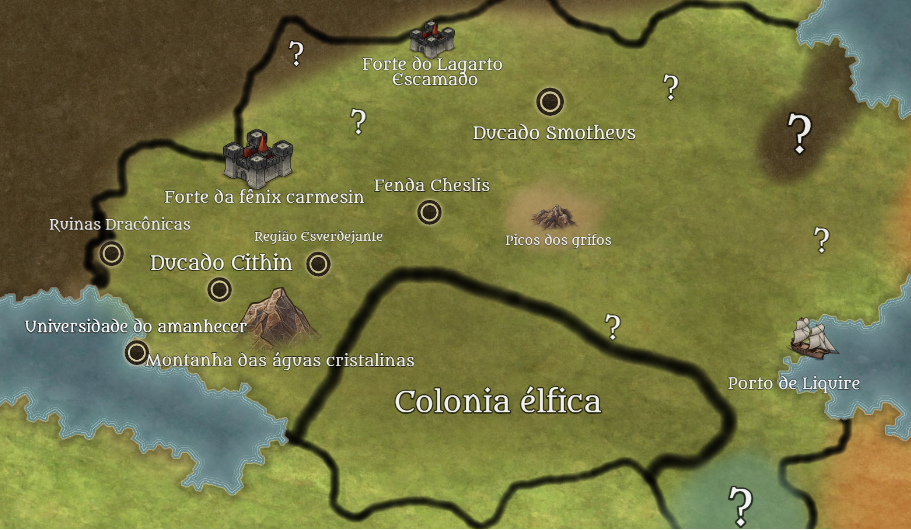
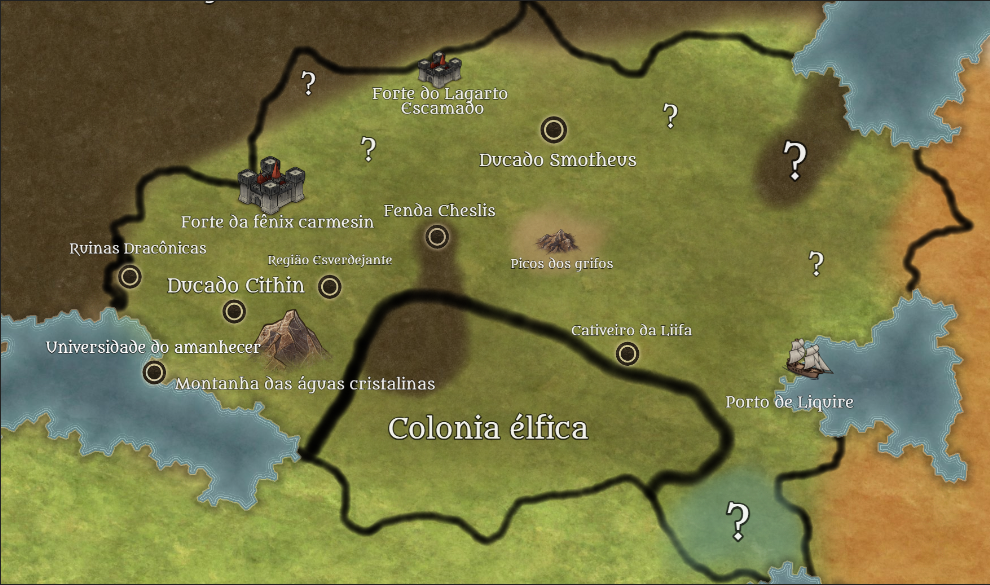
23 sessão

diff --git a/src/app/main/sessoes/sessoes.component.html b/src/app/main/sessoes/sessoes.component.html
@@ -398,5 +398,20 @@
               <p>Sem hesitar, ele teletransporta seus aprendizes para longe do perigo eminente e a última coisa que eles veem é o Púrpura do Oeste e o Dragão Ancião engajando em combate.</p>
               <p>Os aventureiros se encontram em uma sala fechada, com uma Elfa presa e toda surrada. Eles matam dois dos bandidos que estão por lá e libertam a elfa, mas ainda não sabem muito sobre ela. Eles resolvem sair daquela caverna, matando todos os bandidos que encontram no caminho, mas capturam um cavaleiro Elfico que estava no local.</p>
               </accordion-group>
+              <accordion-group>
+                <div accordion-heading class="header">23° sessão 15/11</div>
+                  <p>O grupo interroga o cavaleiro élfico e a elfa. O cavaleiro élfico não passou nenhuma informação, mas a elfa revelou que ela era a princesa herdeira do reino élfico Pine Groove e que o cavaleiro tinha sido mandado por seu irmão para matá-la.</p>
+                  <p>Como o cavaleiro não quis corabolar, o grupo executou-o no ato. Eles resolvaram salvar a Princesa e levá-la de volta para seu reino.</p>
+                  <p>Chegando no palácio, eles percebem que a relação do pai dela com seu irmão não é boa.</p>
+                  <p>O Scacher resolve usar os dutos de ar para espiar a conversa do Rei. Ele descobre que a colônia élfica foi atacada por um Dragão das Sombras. Ele assume que é o mesmo dragão com quem o Púrpura do Oeste estava lutando.</p>
+                  <p>Ele também descobre que grande parte da região da colônia élfica foi dizimada pelo dragão. Outra informação que ele descobre é que, depois de um dia inteiro de combate, ambos o dragão e o Púrpura do Oeste foram mortos em combate.</p>
+                  <p>Ao descobrir que o Púrpura do Oeste morreu, como o Passos Divinos está fora do Reino Graindi, o rei Élfo resolve realizar um ataque surpresa ao reino Graindi.</p>
+                  <p>O principe Garius, ao descobrir de tal ocorrido, ele resolve ajudar o grupo de aventureiros a retornar pro Reino Graindi o mais rápido possivel, para que eles possam avisar sobre a guerra.</p>
+                  <p>O grupo avisa o General Túlio, que monta um exército às pressas e marcham em direção à Colônia Élfica para interceptar o exército do reino Élfico.</p>
+                  <p>O grupo chama a ajuda dos Grungs e dos Kobolds para ajudá-los na guerra. Como uma tribo guerreira, os Grungs prontamente se oferecem para ajudar no combate</p>
+                  <p>O exército marcha até o cair da noite, quando eles resolvem levantar acampamento.</p>
+                  <p>Cada um do grupo se prepara do jeito que acha melhor.</p>
+                  <p>O patrono de Drezig entrega uma lamparina para ele, e manda ele levá-la para a guerra.</p> 
+                </accordion-group>
   </accordion>
 </div>

diff --git a/src/app/main/npcs/secundarios/secundarios.component.html b/src/app/main/npcs/secundarios/secundarios.component.html
@@ -72,7 +72,25 @@
         <div class="card-body">
             <h3>Liifa</h3>
             <p class="card-text">
-                Uma elfa que foi encontrada presa dentro de um cativeiro em um lugar desconhecido. Ainda não se sabe muito sobre quem ela é ou porquê ela estava lá.
+                A princesa herdeira do Reino Élfico Pine Groove. Ela acredita na lógica segregacionista de seu pai.
+            </p>
+        </div>
+    </div>
+    <div class="card col-md-3">
+        <img class="card-img-top" src="../../../../assets/imgs/npcs/ReiDosElfos.jpg" alt="Card image cap">
+        <div class="card-body">
+            <h3>Rei de Pine Groove</h3>
+            <p class="card-text">
+                Esse é o rei do reino élfico Pine Groove. Ele acredita que os elfos são superiores às outras raças e que seu reino deve apenas ter elfos. Ele também é inimigo do reino Graindi
+            </p>
+        </div>
+    </div>
+    <div class="card col-md-3">
+        <img class="card-img-top" src="../../../../assets/imgs/npcs/PrincipeDosElfos.webp" alt="Card image cap">
+        <div class="card-body">
+            <h3>Garius</h3>
+            <p class="card-text">
+               Príncipe do reino Élfico Pine Groove. Ele deveria ser o principe herdeiro, mas como ele não concordava com a politica segregacionista de seu pai, a herança foi passada para sua irmã.
             </p>
         </div>
     </div>

diff --git a/src/app/main/npcs/aleatorios/aleatorios.component.html b/src/app/main/npcs/aleatorios/aleatorios.component.html
@@ -71,4 +71,13 @@
             </p>
         </div>
     </div>
+    <div class="card col-md-3">
+        <img class="card-img-top" src="../../../../assets/imgs/npcs/cavaleiro.jpg" alt="Card image cap">
+        <div class="card-body">
+            <h3>General Túlio</h3>
+            <p class="card-text">
+              Ele é o General do reino Graindi. Em tempos de guerra, sua autoridade supera até a do próprio rei.
+            </p>
+        </div>
+    </div>
 </div>
